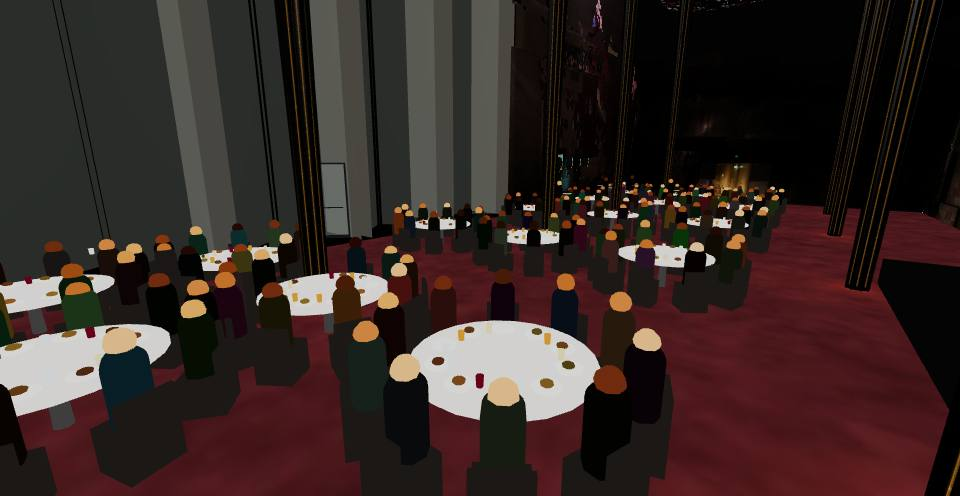
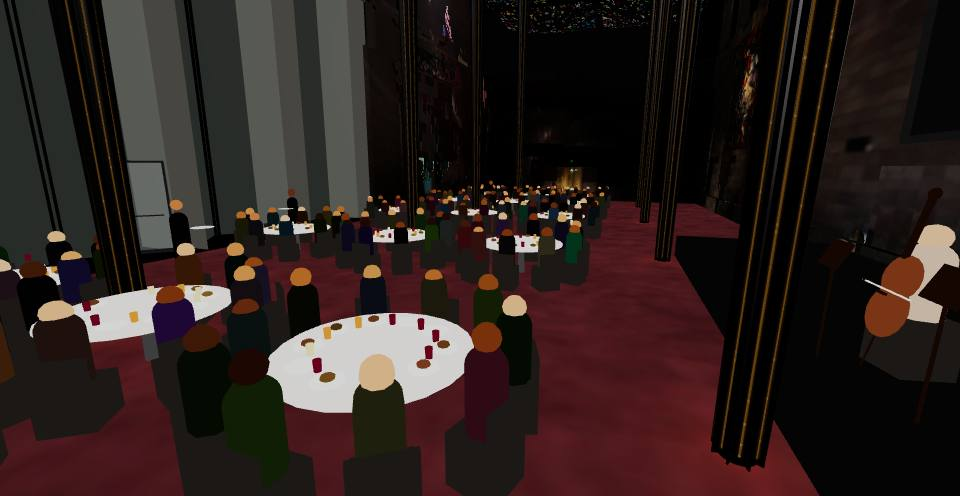
Shot 2 (Lloyd, V12): the camera never stops on screen; the pan and the lift are stretched to run through the fade, so the dinner cuts away mid-move

diff --git a/index.html b/index.html
@@ -3734,12 +3734,12 @@ function tourSegments(){ const uM=EVENT.wallLen/2, c=EVENT.cols;
   // 2.6 m while the yaw pans across the room to the centre; the text goes at 11 s, the shot
   // fades to black over 11.5 to 13 s and ends there
   {mode:'dinner', dur:13, cam:k=>{ const s=k*13, U=EVENT.N.u, R=EVENT.N.inRoom;
-    const q1=smooth(smooth(Math.max(0,Math.min(1,(s-0.6)/5)))), q2=smooth(Math.max(0,Math.min(1,(s-5.6)/6.4)));
+    const q1=smooth(smooth(Math.max(0,Math.min(1,(s-0.6)/5)))), q2=smooth(Math.max(0,Math.min(1,(s-5.6)/8.0)));   /* (V12, Lloyd) the lift is still going as the black lands: nobody sees the camera stop */
     // (Lloyd, V9) up from the carpet the look goes RIGHT first, to the quartet on the stage
     // (5.6 to 8 s), barely rests, then swings LEFT across to the tables and the room's centre
-    // (8.3 to 11.8 s; V11, Lloyd: it lingered on the quartet too long); the lift runs underneath as before
+    // (from 8.3 s, still swinging as the shot fades; V11: sooner off the quartet, V12: never seen stopping); the lift runs underneath as before
     const at=EP(18.9,0.9+1.7*q2,4.9), cu=uM-18.9, cd=9.5-4.9, t1=Math.atan2(cd,cu), aq=Math.atan2(2.3-4.9,21.7-18.9);
-    const qa=smooth(Math.max(0,Math.min(1,(s-5.6)/2.4))), qb=smooth(Math.max(0,Math.min(1,(s-8.3)/3.5))), a=aq*qa*(1-qb)+t1*qb;
+    const qa=smooth(Math.max(0,Math.min(1,(s-5.6)/2.4))), qb=smooth(Math.max(0,Math.min(1,(s-8.3)/5.0))), a=aq*qa*(1-qb)+t1*qb;
     const p0=-1.50, p1=-0.09, p2=Math.atan2(1.0-2.6,Math.hypot(cu,cd)), p=p0+(p1-p0)*q1+(p2-p1)*q2;
     const h=U.clone().multiplyScalar(Math.cos(a)).addScaledVector(R,Math.sin(a));
     poseAt(at,at.clone().addScaledVector(h,5*Math.cos(p)).add(new THREE.Vector3(0,5*Math.sin(p),0))); titleStep(s,at,at.clone().addScaledVector(h,5),TX('dinner'));
